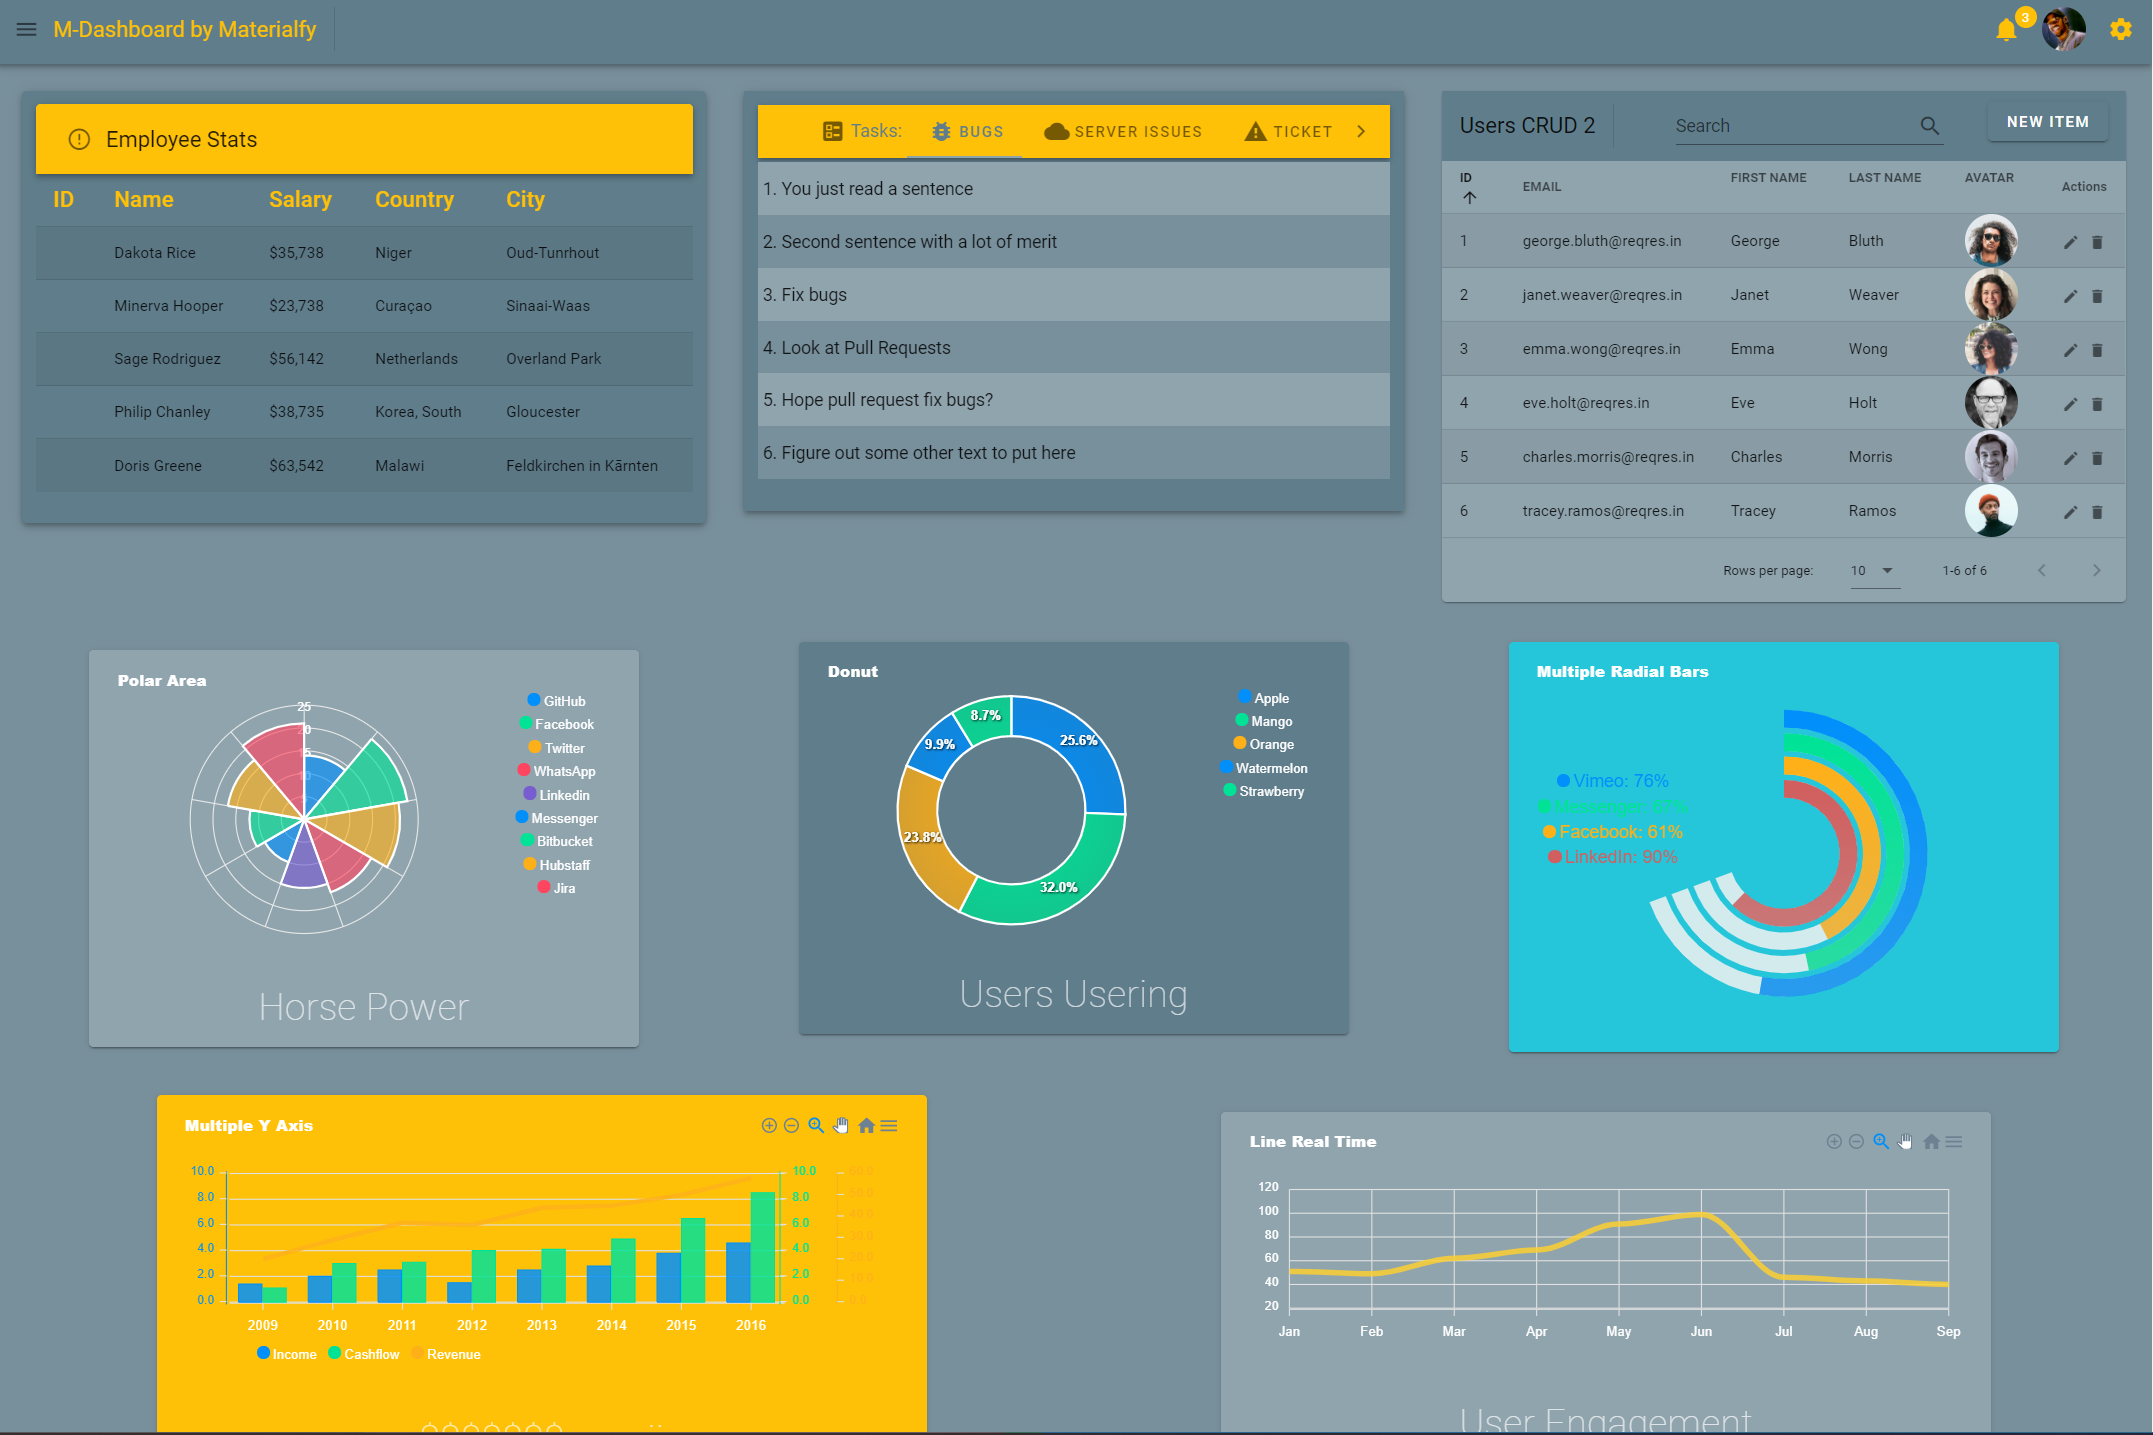
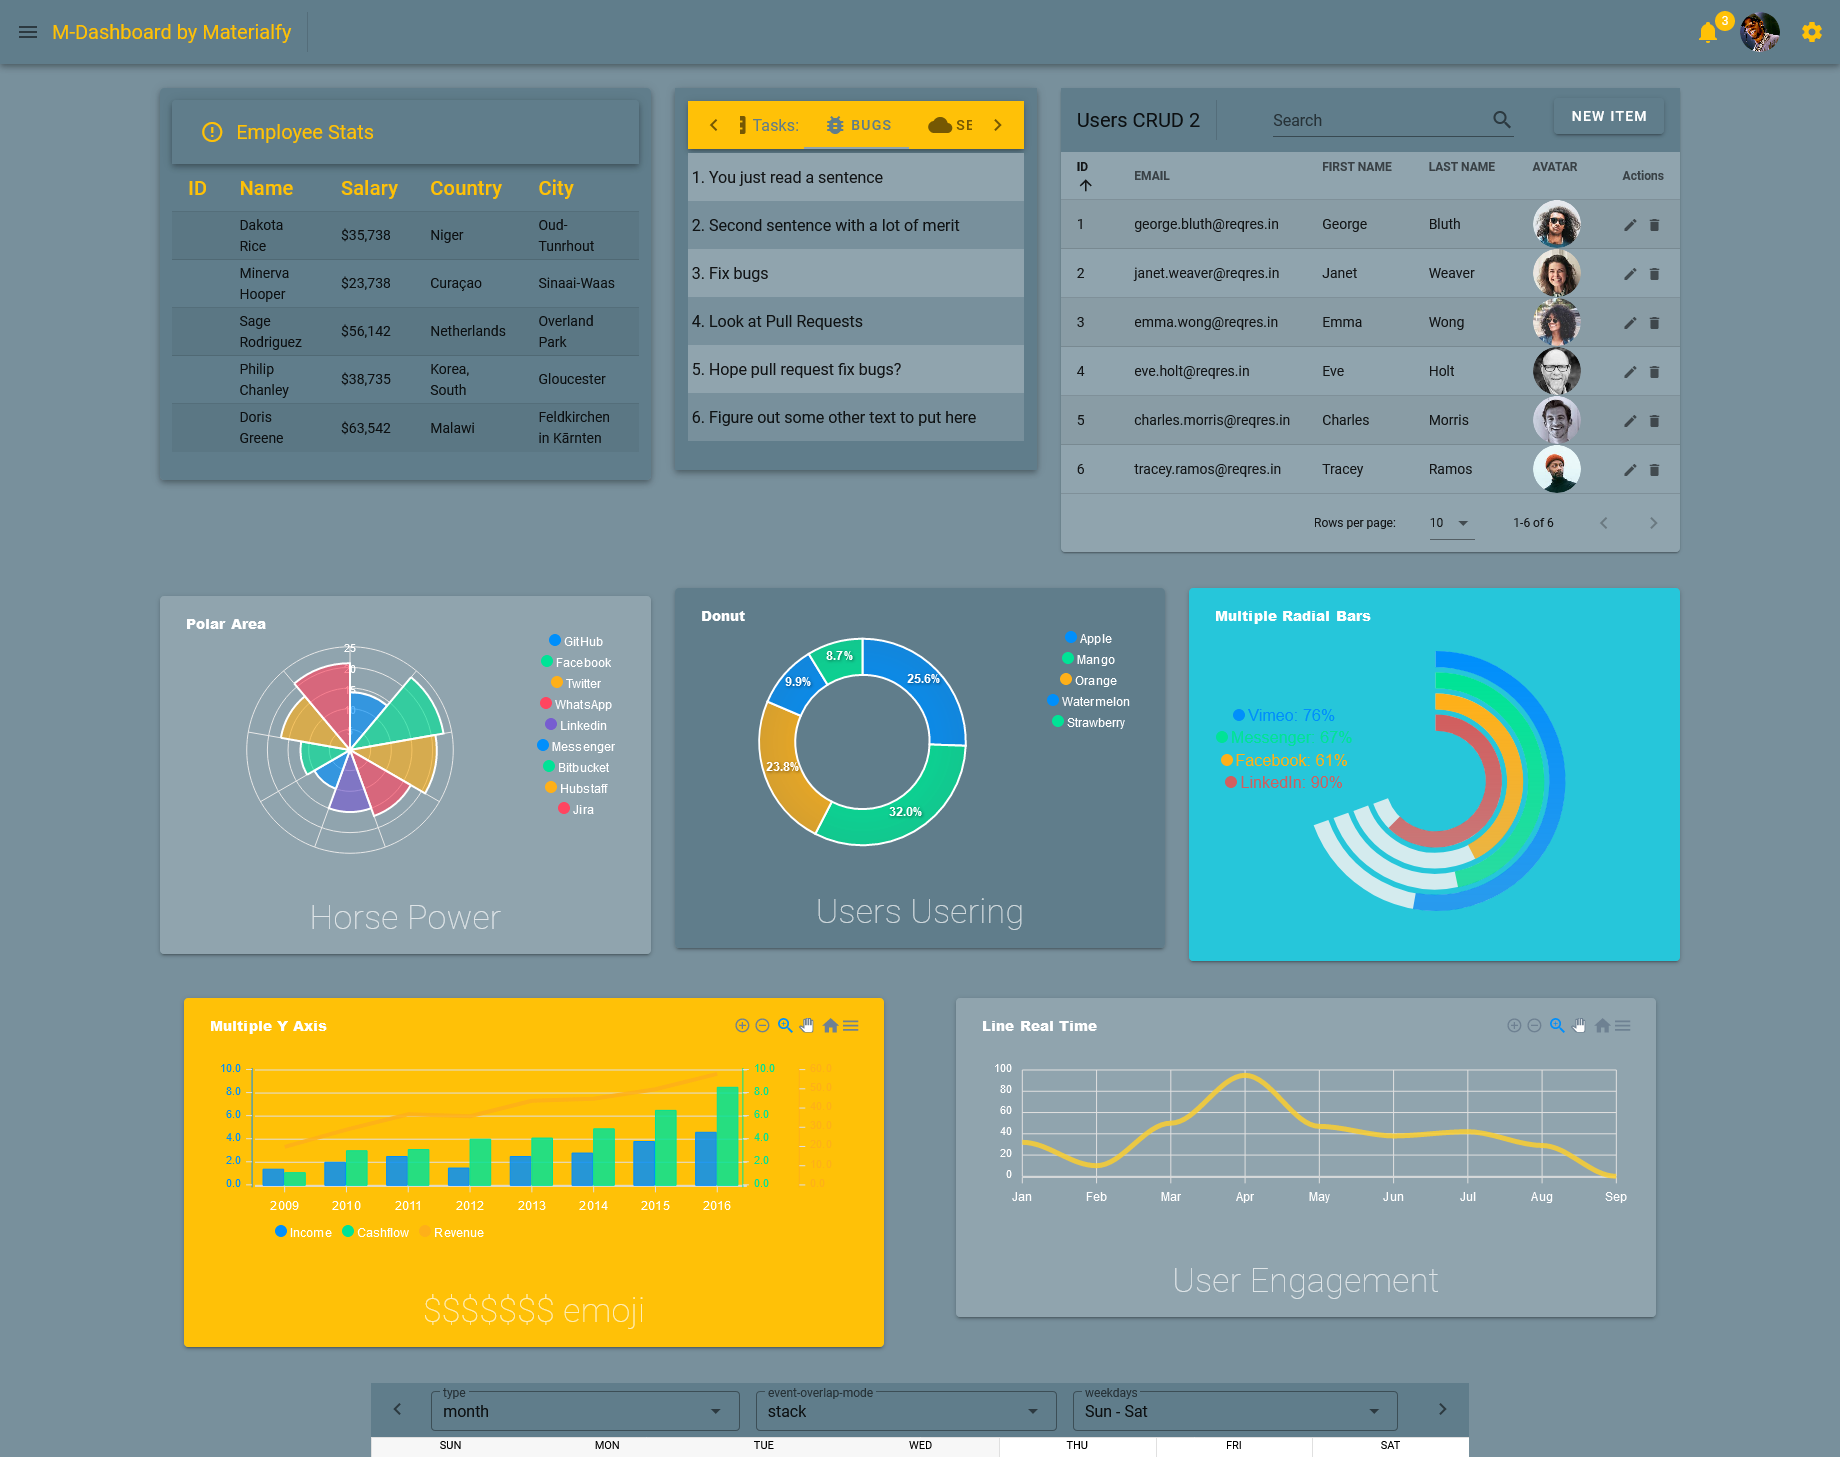
updated header card style and dash align

diff --git a/src/views/DashboardViews/Dash.vue b/src/views/DashboardViews/Dash.vue
@@ -1,7 +1,7 @@
 <!-- @format -->
 
 <template>
-	<v-container fluid>
+	<v-container fluid style="width: 85%">
 		<!-- FIRST ROW with header table card and basic tab cards -->
 		<v-row class="d-flex align-start mb-1">
 			<!-- First DATA TABLE Card -->
@@ -43,7 +43,7 @@
 				</MaterialfyHeaderCard>
 			</v-col>
 			<!-- V-TAB TO-DO CARD -->
-			<v-col col md="4">
+			<v-col col md="3">
 				<MaterialfyBasicCard :cardShowTitle="false">
 					<!-- Header -->
 					<template v-slot:crdSubHeader>
@@ -87,7 +87,7 @@
 				</MaterialfyBasicCard>
 			</v-col>
 			<!-- LAST CARD -->
-			<v-col md="4">
+			<v-col md="5">
 				<MaterialfyDataTable />
 			</v-col>
 		</v-row>
@@ -140,7 +140,7 @@
 
 		<!-- THIRD ROW -->
 		<!-- Used named slots and props to overide the default card content below -->
-		<v-row class="d-flex align-center mb-2">
+		<v-row class="d-flex align-start mb-2">
 			<v-col>
 				<MaterialfyColorCard cardInnerText="$$$$$$$ emoji" :cardShowDivider="false" :cardShowActions="false">
 					<template v-slot:crdInner>

diff --git a/src/components/materialfy/HeaderCard.vue b/src/components/materialfy/HeaderCard.vue
@@ -10,11 +10,11 @@
 		<v-toolbar :color="cardHeaderColor">
 			<slot name="crdHeader">
 				<v-avatar :tile="true" v-if="cardShowAvatar">
-					<v-icon>
-						<slot name="crdIcon"> {{ cardIcon }} </slot>
+					<v-icon color="tertiary">
+						<slot name="crdIcon" > {{ cardIcon }} </slot>
 					</v-icon>
 				</v-avatar>
-				<v-toolbar-title>{{ cardTitle }}</v-toolbar-title>
+				<v-toolbar-title class="tertiary--text">{{ cardTitle }}</v-toolbar-title>
 				<v-spacer />
 			</slot>
 		</v-toolbar>
@@ -74,7 +74,7 @@ export default {
 			default: "crdActions",
 		},
 		cardHeaderColor: {
-			default: "tertiary",
+			default: "primary",
 		},
 		cardColor: {
 			default: "primary",

diff --git a/src/components/materialfy/BasicTextCard.vue b/src/components/materialfy/BasicTextCard.vue
@@ -22,9 +22,8 @@
 				>
 					{{ cardTitle }}
 				</v-list-item-title>
-			</v-list-item-content>
-			<slot :name="cardAvatar" v-if="cardShowAvatar">
-				<v-list-item-avatar size="80" color="primary">
+				<slot :name="cardAvatar" v-if="cardShowAvatar">
+				
 					<div class="text-center">
 						<v-progress-circular
 							:rotate="360"
@@ -36,8 +35,10 @@
 							{{ value }}
 						</v-progress-circular>
 					</div>
-				</v-list-item-avatar>
+				
 			</slot>
+			</v-list-item-content>
+			
 		</v-list-item>
 		<v-container>
 			<slot :name="cardInnerList" v-if="cardShowInnerList">
